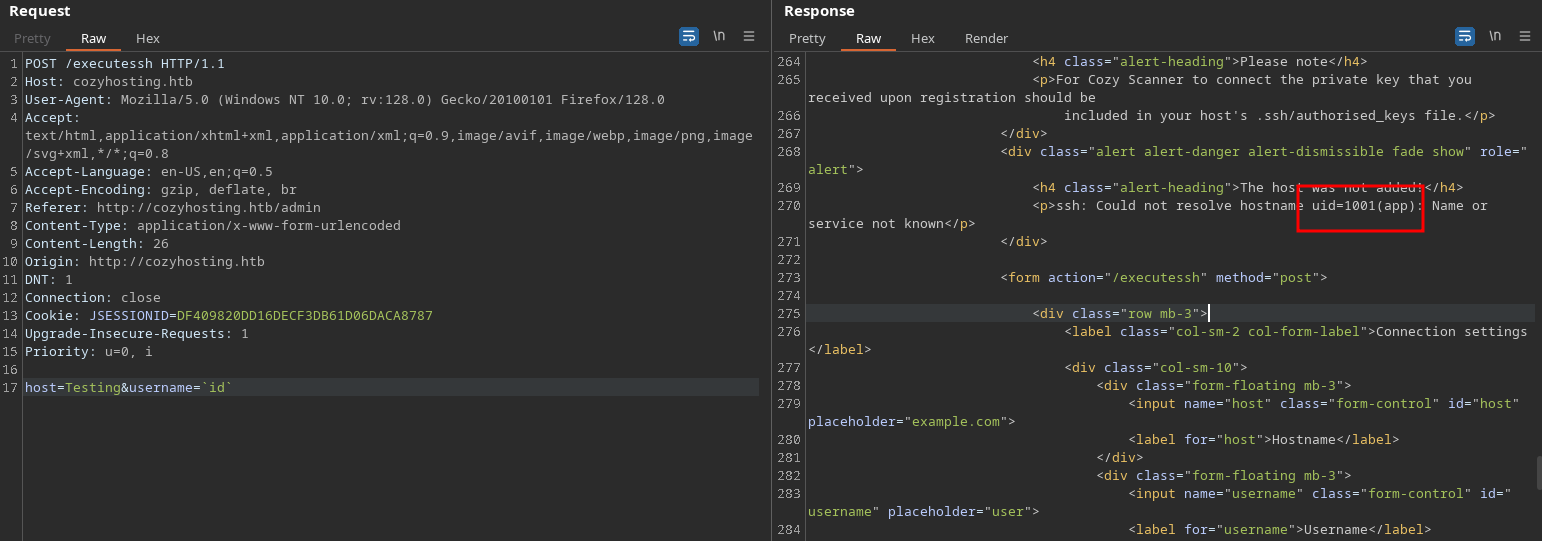
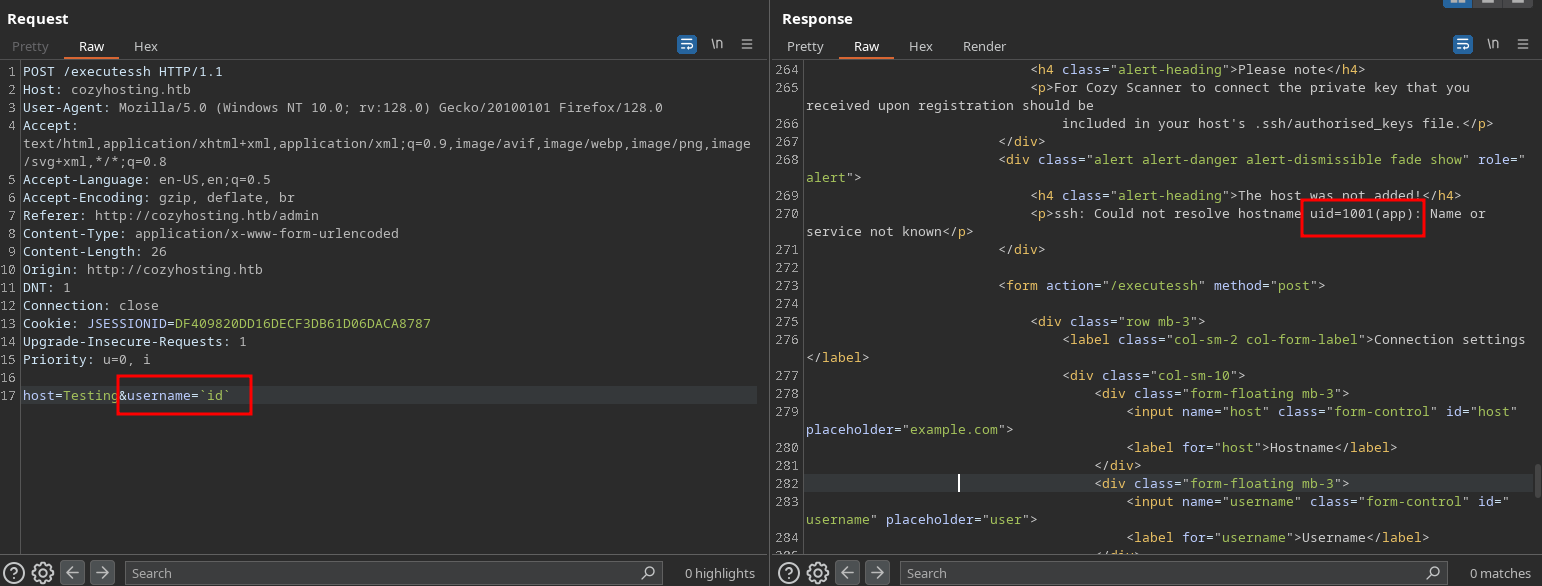
Add a new image and some text

diff --git a/_writeups/2024/HTB/CozyHosting.md b/_writeups/2024/HTB/CozyHosting.md
@@ -196,7 +196,7 @@ Let's intercept the petition with Burp Suite to test different things:
 
 As we can see, there is a error in the response "Could not resolve hostname testing".
 
-It seems that the server is running ssh behind the scenes to try to connect, let's try to inject a command in the username field:
+It seems that the server is running ssh behind the scenes to try to connect, let's inject a command in the username field:
 
 <br />
 
